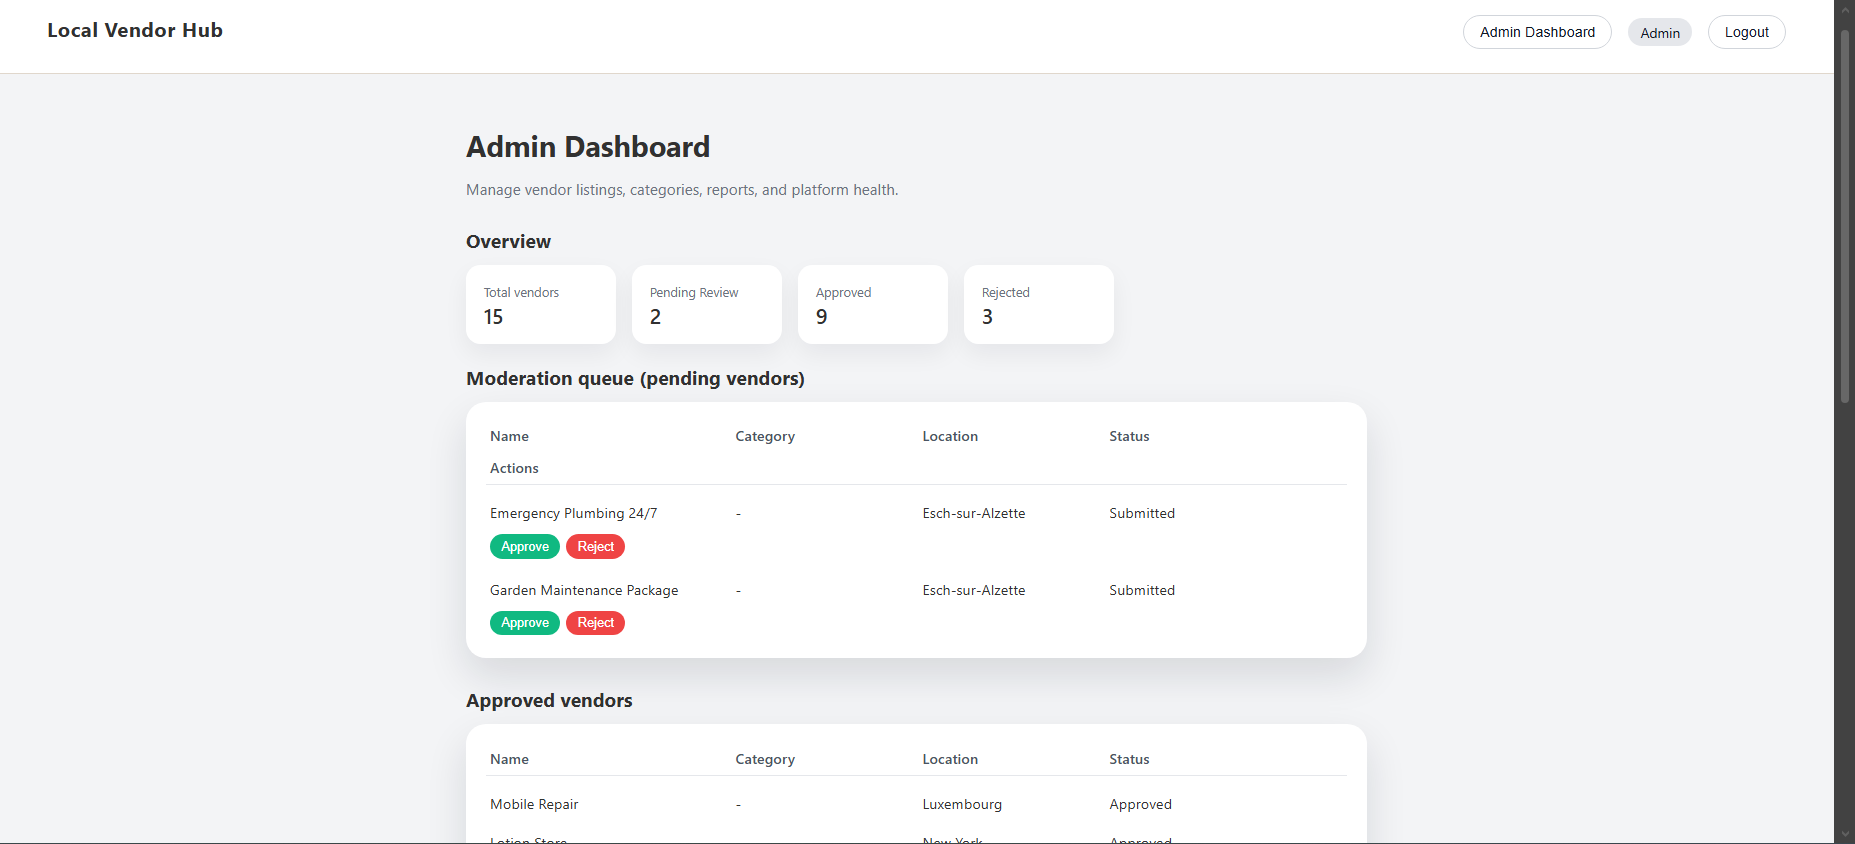
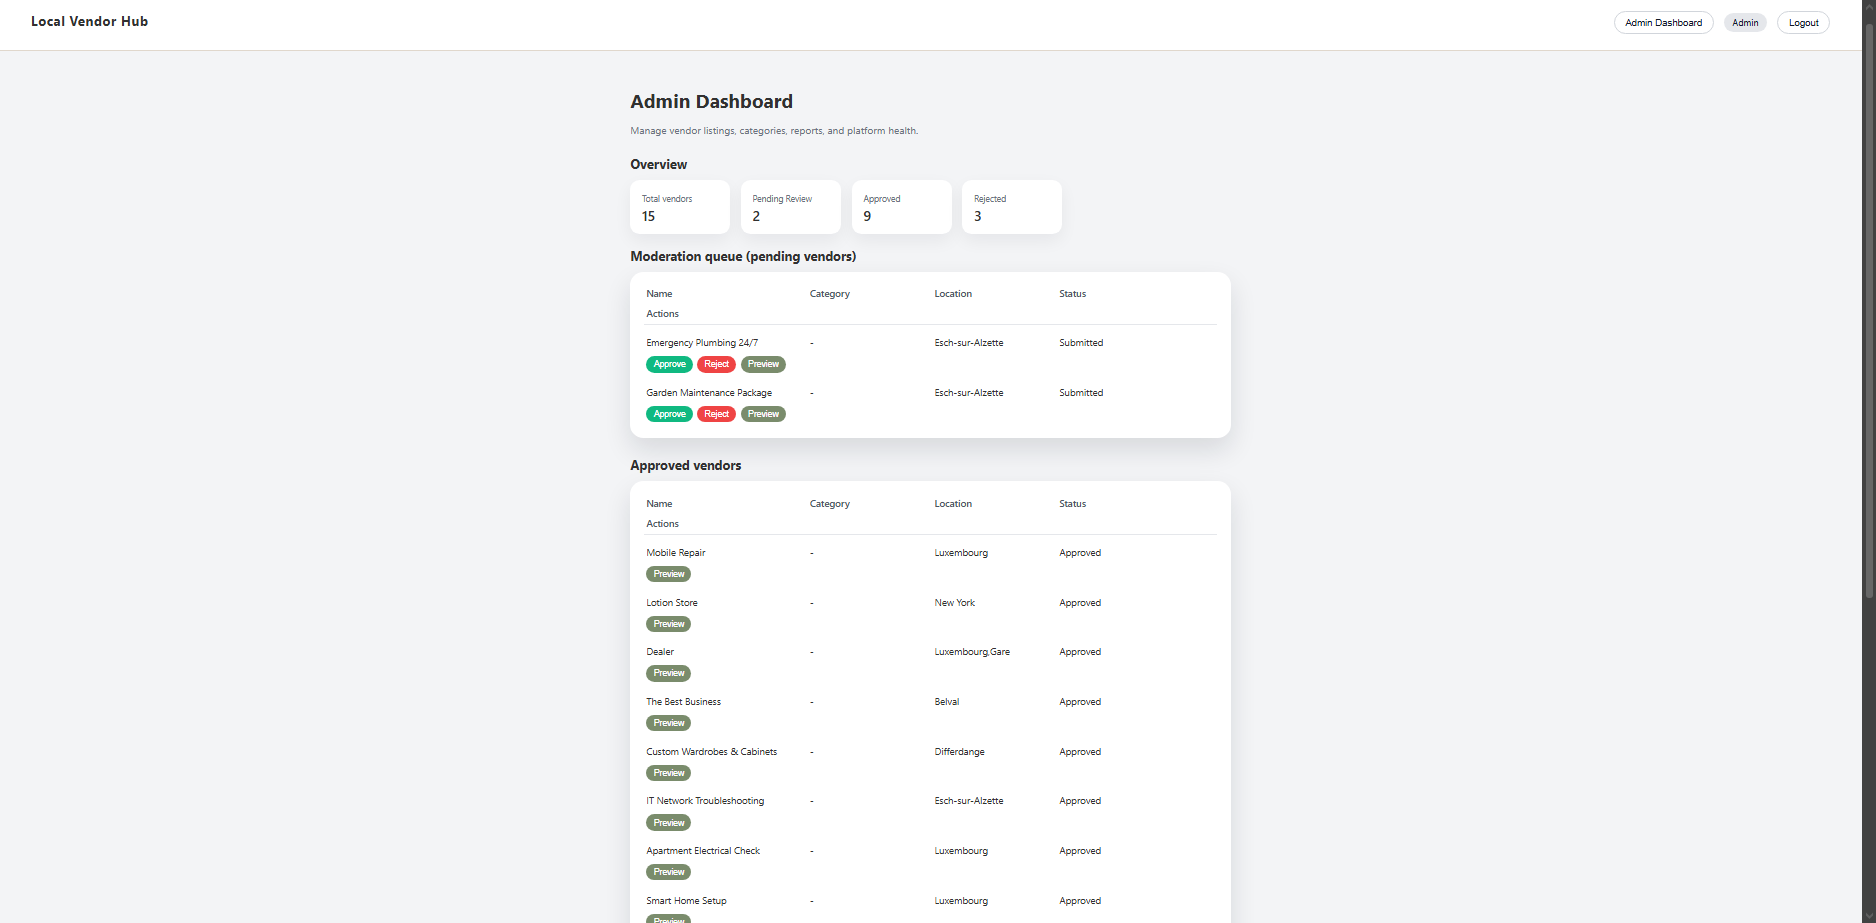
docs: Update deployment documentation and add demo admin access info
- Align ARCHITECTURE.md with actual Azure VM deployment (Docker/docker-compose)
- Add demo access section to README explaining prefilled admin credentials
- Update TESTING.md documentation for clarity
- Update test evidence screenshots for admin preview feature

diff --git a/docs/ARCHITECTURE.md b/docs/ARCHITECTURE.md
@@ -83,12 +83,13 @@ Migrations are versioned in database/migrations/.
 ---
 
 ## 7. Deployment Architecture (Azure)
-Reference: docs/DEPLOYMENT_AZURE.md
 
-- Frontend: Azure Static Web Apps
-- Backend: Azure App Service
-- Database/Auth: Supabase
-- CI: GitHub Actions
+- **Frontend & Backend**: Azure Virtual Machine with Docker and docker-compose
+- **Database**: PostgreSQL on Supabase
+- **Email**: Gmail SMTP
+- **Access**: http://smallbusinessdirectory.francecentral.cloudapp.azure.com or http://20.199.16.127
+
+Both the frontend (Vite + React) and backend (Node.js + Express) are containerized using Docker and orchestrated with docker-compose, then deployed on a single Azure VM. The application is fully functional and publicly accessible.
 
 Environment variables are configured in Azure (not committed).
 

diff --git a/docs/TESTING.md b/docs/TESTING.md
@@ -1,7 +1,7 @@
 # System Testing & QA Evidence
 
 ## Purpose
-This document records system-level testing for the Small Business Directory application and provides a regression checklist with captured evidence.
+This document records system-level testing for the Small Business Directory application, providing a regression checklist with captured evidence. To ensure comprehensive coverage, backend and frontend components were validated through separate testing cycles.
 
 ## Environments
 - Azure: http://20.199.16.127 or http://smallbusinessdirectory.francecentral.cloudapp.azure.com

diff --git a/README.md b/README.md
@@ -26,6 +26,9 @@ Environment variables are used to securely configure database access, authentica
 - Email: Gmail SMTP
 - Access links: http://smallbusinessdirectory.francecentral.cloudapp.azure.com , http://20.199.16.127
 
+**Demo Access:**
+The application includes prefilled admin credentials so you can explore the admin dashboard functionality. Log in with the provided demo account to view listing approvals, category management, and administrative features.
+
 ## Repository Structure & Documentation
 
 ### Project Documentation (Deliverable I)
